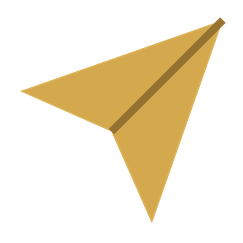
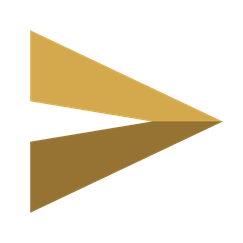
v1.19.187 重绘底部 tab 图标（5x 超采样 + 精致几何）
4 个 tab 图标此前用 3x 超采样 + 简化几何，显得粗糙：
- 纸飞机改用 Material send 几何（上下直尾翼 + 深 V 缺口 + 折缝分上下翼），不再像箭头/光标
- 地图钉：圆头 + 收尖 + 内嵌空心圆，干净可辨
- 指南针：外环 + 四方位刻度 + 四芒针(北长南短) + 中心轴，明确指北
- 更多：三点等距(5/12/19)拉开间隙，不再粘连
- _gen-tab-icons.py 超采样 3x->5x，边缘明显更顺；配色沿用深/浅/金三态

diff --git a/tools/_gen-tab-icons.py b/tools/_gen-tab-icons.py
@@ -1,20 +1,20 @@
 #!/usr/bin/env python3
 # 重绘底部 4 个 tab 图标（paper plane / map pin / compass / ellipsis）
-# 当前全部 32x32 px，高分屏发虚；本脚本按原设计矢量重绘为 162x162（3x 超采样 + LANCZOS 抗锯齿）。
+# 243x243 输出，5x 超采样 + LANCZOS 抗锯齿，几何更精致、线条更顺。
 # 配色沿用现有：深色主题未选=#8495ad，浅色主题未选=#4a5568，选中=金 #d4a94e。
 # 用法：python3 tools/_gen-tab-icons.py
 import math
 from PIL import Image, ImageDraw
 
 SIZE = 243
-SS = 3
+SS = 5                      # 超采样倍数（3 -> 5，边缘明显更顺）
 BIG = SIZE * SS
 f = BIG / 24.0
 
-C_DARK = (132, 149, 173, 255)
-C_LIGHT = (74, 85, 104, 255)
-C_GOLD = (212, 169, 78, 255)
-GOLD_DARK = (150, 115, 50, 255)
+C_DARK = (132, 149, 173, 255)   # 深色主题·未选
+C_LIGHT = (74, 85, 104, 255)    # 浅色主题·未选
+C_GOLD = (212, 169, 78, 255)    # 选中
+GOLD_DARK = (150, 115, 50, 255) # 选中态内的暗金（制造立体感）
 WHITE = (255, 255, 255, 255)
 
 
@@ -23,64 +23,74 @@ def P(x, y):
 
 
 def sw(u):
-    return max(1.0, u * f)
+    """24-grid 单位 -> BIG 像素（整数，靠超采样获得亚像素平滑）。"""
+    return max(1, int(round(u * f)))
 
 
 def draw_plane(d, color, filled):
-    # Feather "send" 纸飞机几何：更 recognizable
-    N, Ut, F, Lt = (22, 2), (2, 9), (11, 13), (15, 22)
+    # Material「send」纸飞机（朝右）：左缘上下两段直尾翼(C-D / F-A) + 深 V 缺口 E；
+    # 折缝 B-E 把机身分成上翼(亮金)/下翼(暗金)，而非平滑箭头。
+    A, B, C, D, E, F = (3, 21), (22, 12), (3, 3), (3, 10), (15, 12), (3, 14)
     if filled:
-        d.polygon([P(*N), P(*Ut), P(*F), P(*Lt)], fill=color)
-        d.line([P(*N), P(*F)], fill=GOLD_DARK, width=max(1, int(sw(1.7) * 0.5)))
+        d.polygon([P(*B), P(*C), P(*D), P(*E)], fill=color)        # 上翼（亮金）
+        d.polygon([P(*B), P(*E), P(*F), P(*A)], fill=GOLD_DARK)    # 下翼（暗金折面）
     else:
-        w = int(sw(1.7))
-        d.line([P(*N), P(*Ut), P(*F), P(*Lt), P(*N)], fill=color, width=w)
-        d.line([P(*N), P(*F)], fill=color, width=w)
+        w = sw(1.7)
+        d.line([P(*A), P(*B), P(*C), P(*D), P(*E), P(*F), P(*A)], fill=color, width=w, joint="curve")
+        d.line([P(*B), P(*E)], fill=color, width=w, joint="curve")
 
 
 def draw_pin(d, color, filled):
-    cx, cy, r = 12, 8.5, 6.2
+    # 经典地图钉：圆头 + 收尖到底部一点，内嵌空心圆（"你在这里"）
+    cx, cy, r = 12, 9, 5.6
     tip = (12, 21)
-    ang = math.radians(55)
+    ang = math.radians(58)
     lx, ly = cx - r * math.sin(ang), cy + r * math.cos(ang)
     rx, ry = cx + r * math.sin(ang), cy + r * math.cos(ang)
     if filled:
         d.ellipse([P(cx - r, cy - r), P(cx + r, cy + r)], fill=color)
         d.polygon([P(lx, ly), P(rx, ry), P(*tip)], fill=color)
-        chk = [(9.2, 8.5), (11.2, 10.6), (15, 6.2)]
-        d.line([P(*chk[0]), P(*chk[1])], fill=WHITE, width=int(sw(2.0)))
-        d.line([P(*chk[1]), P(*chk[2])], fill=WHITE, width=int(sw(2.0)))
+        ir = 2.3
+        d.ellipse([P(cx - ir, cy - ir), P(cx + ir, cy + ir)], fill=WHITE)
     else:
-        w = int(sw(1.7))
+        w = sw(1.7)
         d.ellipse([P(cx - r, cy - r), P(cx + r, cy + r)], outline=color, width=w)
-        d.line([P(lx, ly), P(*tip)], fill=color, width=w)
-        d.line([P(rx, ry), P(*tip)], fill=color, width=w)
-        ir = 2.6
+        d.line([P(lx, ly), P(*tip)], fill=color, width=w, joint="curve")
+        d.line([P(rx, ry), P(*tip)], fill=color, width=w, joint="curve")
+        ir = 2.3
         d.ellipse([P(cx - ir, cy - ir), P(cx + ir, cy + ir)], outline=color, width=w)
-        # 内部勾：未选态用同色（白底/深色底都可见），不画白色（白底会隐身）
-        chk = [(9.2, 8.5), (11.2, 10.6), (15, 6.2)]
-        d.line([P(*chk[0]), P(*chk[1])], fill=color, width=w)
-        d.line([P(*chk[1]), P(*chk[2])], fill=color, width=w)
 
 
 def draw_plan(d, color, filled):
-    cx, cy, r = 12, 12, 8
-    needle = [(12, 5.5), (13.6, 12), (12, 18.5), (10.4, 12)]
+    # 指南针：外环 + 四方位刻度 + 四芒针（北长南短）+ 中心轴
+    cx, cy, r = 12, 12, 8.2
+    tk = 1.3
+    ticks = [
+        ((cx, cy - r + tk), (cx, cy - r - tk)),
+        ((cx, cy + r - tk), (cx, cy + r + tk)),
+        ((cx - r + tk, cy), (cx - r - tk, cy)),
+        ((cx + r - tk, cy), (cx + r + tk, cy)),
+    ]
     if filled:
         d.ellipse([P(cx - r, cy - r), P(cx + r, cy + r)], fill=color)
-        d.polygon([P(*p) for p in needle], fill=GOLD_DARK)
-        d.ellipse([P(cx - 1.8, cy - 1.8), P(cx + 1.8, cy + 1.8)], fill=GOLD_DARK)
+        d.polygon([P(12, 4.2), P(13.3, 12), P(12, 19.8), P(10.7, 12)], fill=GOLD_DARK)  # 竖直针
+        d.polygon([P(4.2, 12), P(12, 10.7), P(19.8, 12), P(12, 13.3)], fill=GOLD_DARK)  # 水平针
+        d.ellipse([P(cx - 1.7, cy - 1.7), P(cx + 1.7, cy + 1.7)], fill=WHITE)
+        for a, b in ticks:
+            d.line([P(*a), P(*b)], fill=GOLD_DARK, width=sw(1.0))
     else:
-        w = int(sw(1.7))
+        w = sw(1.7)
         d.ellipse([P(cx - r, cy - r), P(cx + r, cy + r)], outline=color, width=w)
-        # 未选态：指针/中心点用同色（白底/深色底都可见），不画白色
-        d.polygon([P(*p) for p in needle], fill=color)
-        d.ellipse([P(cx - 1.8, cy - 1.8), P(cx + 1.8, cy + 1.8)], fill=color)
+        d.polygon([P(12, 4.2), P(13.3, 12), P(12, 19.8), P(10.7, 12)], fill=color)
+        d.polygon([P(4.2, 12), P(12, 10.7), P(19.8, 12), P(12, 13.3)], fill=color)
+        d.ellipse([P(cx - 1.7, cy - 1.7), P(cx + 1.7, cy + 1.7)], fill=color)
+        for a, b in ticks:
+            d.line([P(*a), P(*b)], fill=color, width=sw(1.0))
 
 
 def draw_more(d, color, filled):
-    for cx in (6, 12, 18):
-        rr = 2.7
+    for cx in (5, 12, 19):
+        rr = 2.5
         d.ellipse([P(cx - rr, 12 - rr), P(cx + rr, 12 + rr)], fill=color)
 
 
